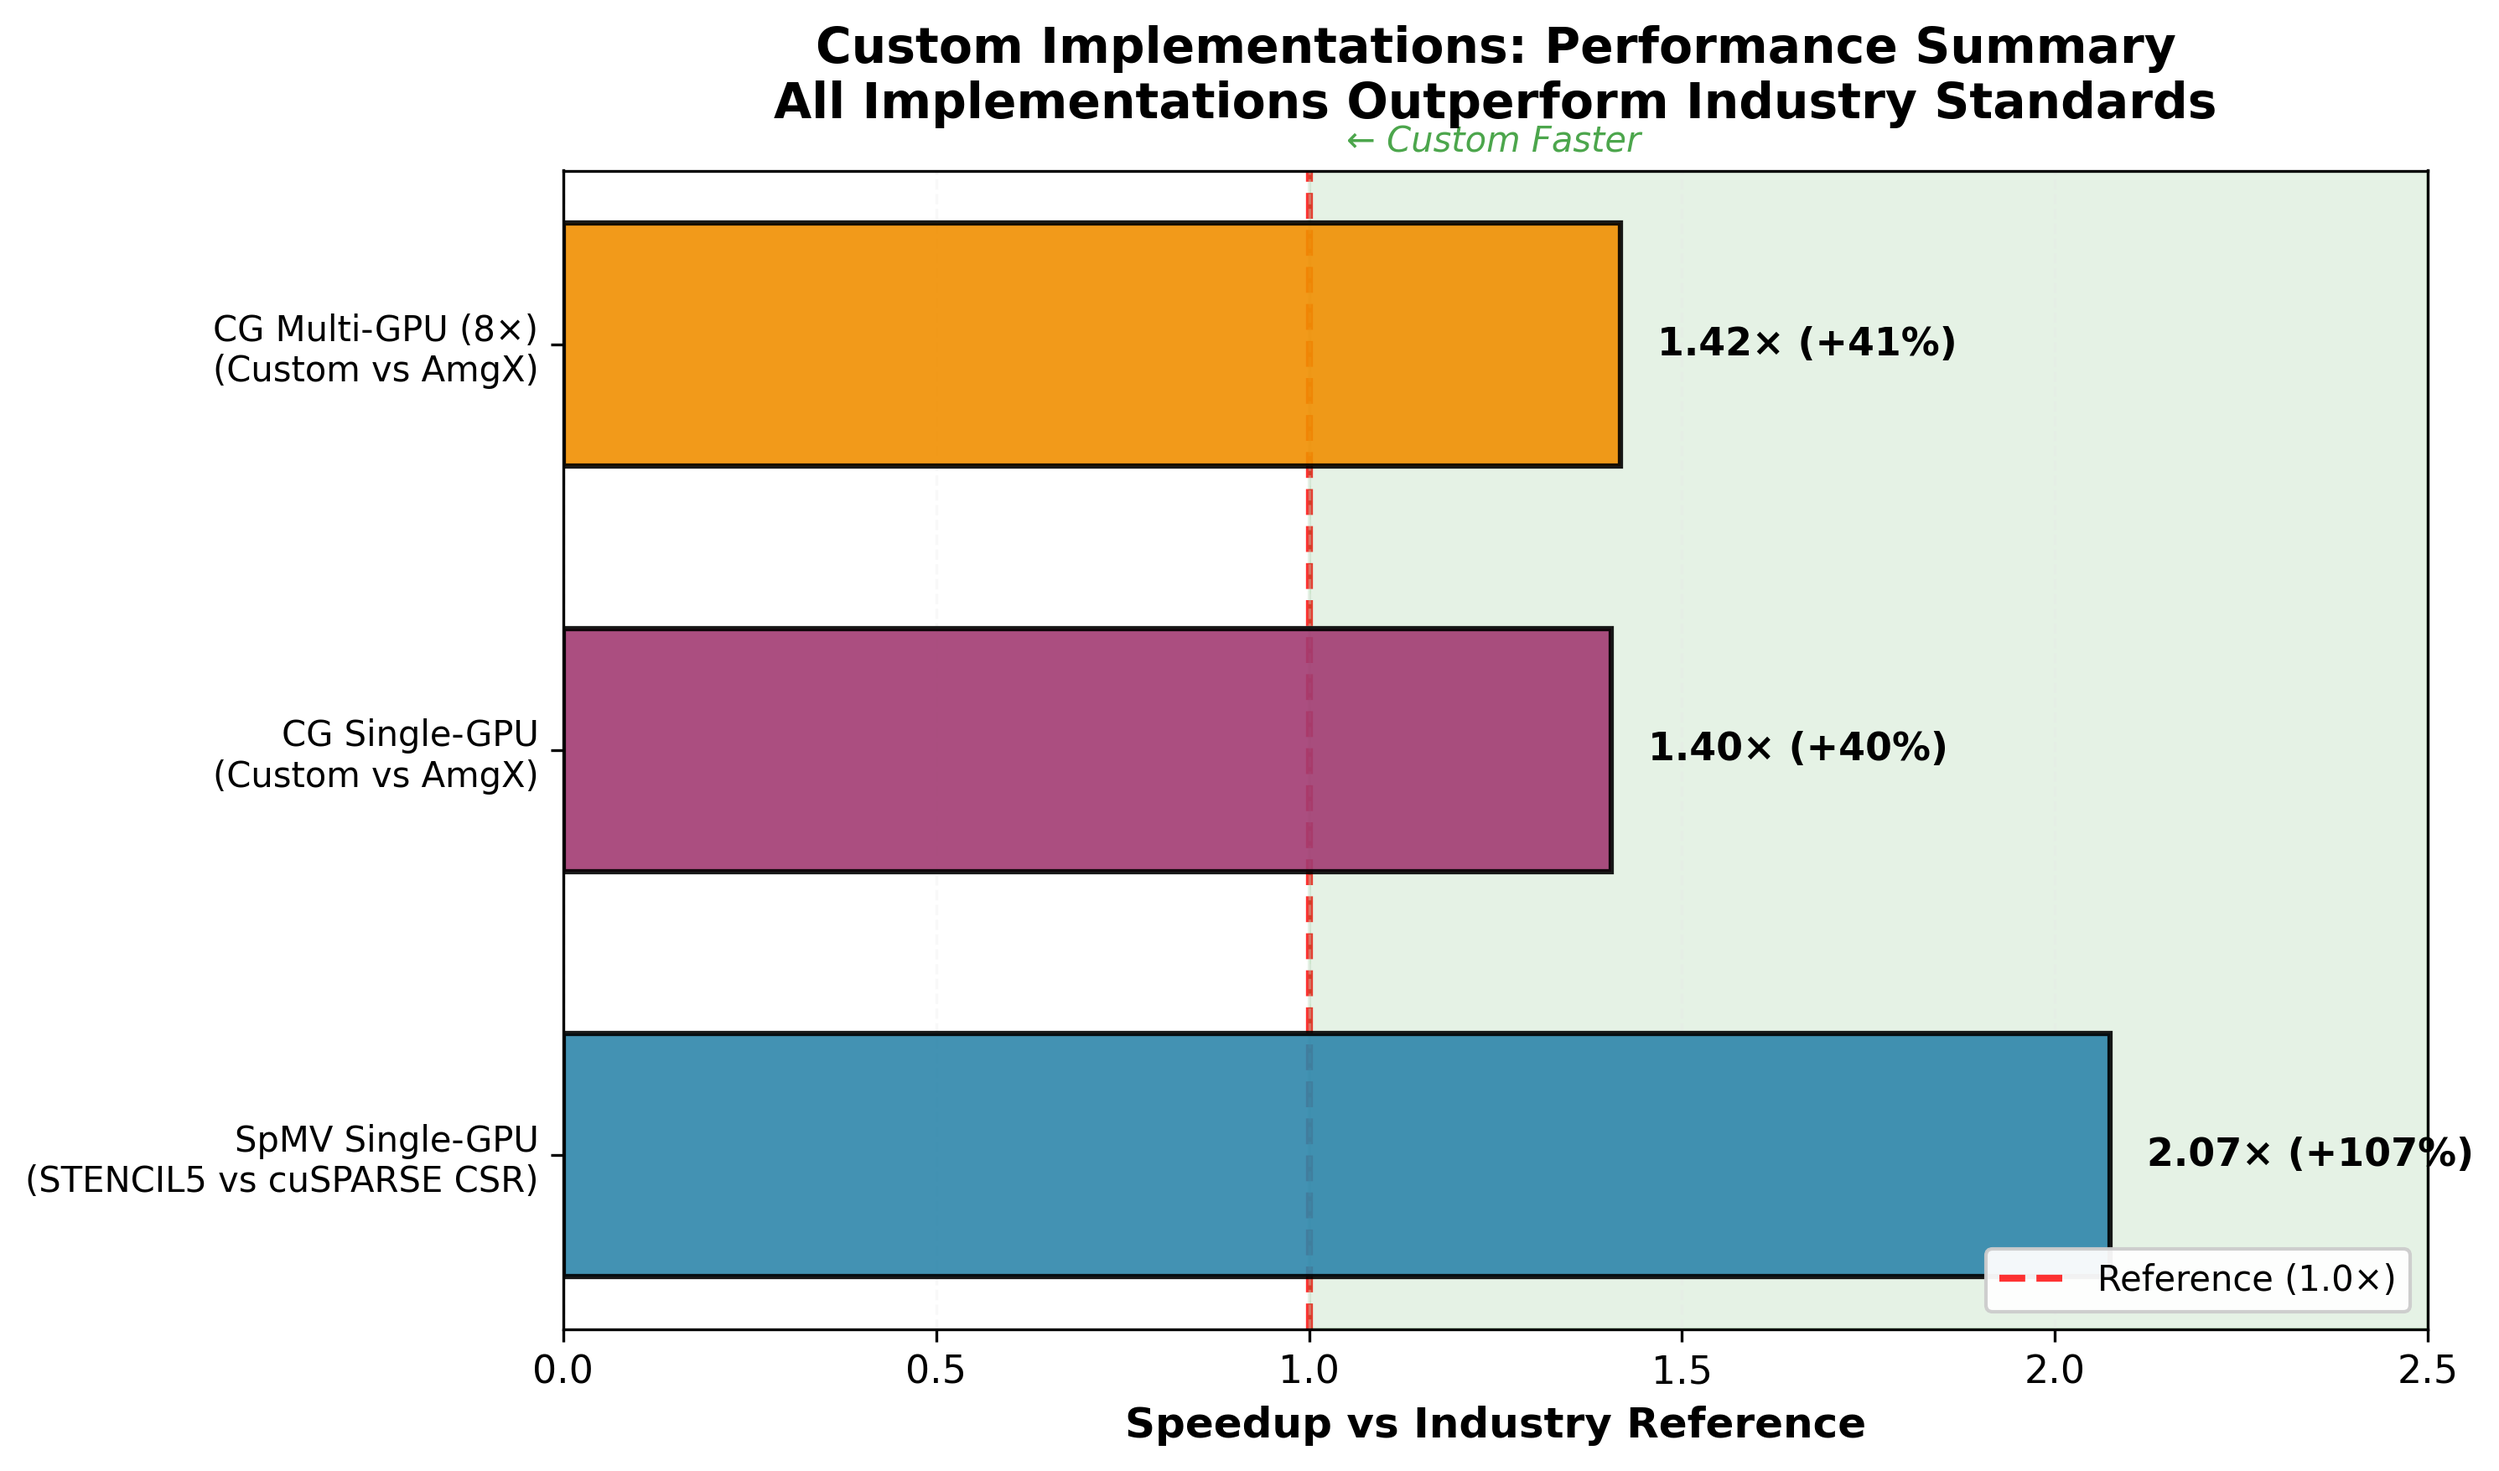
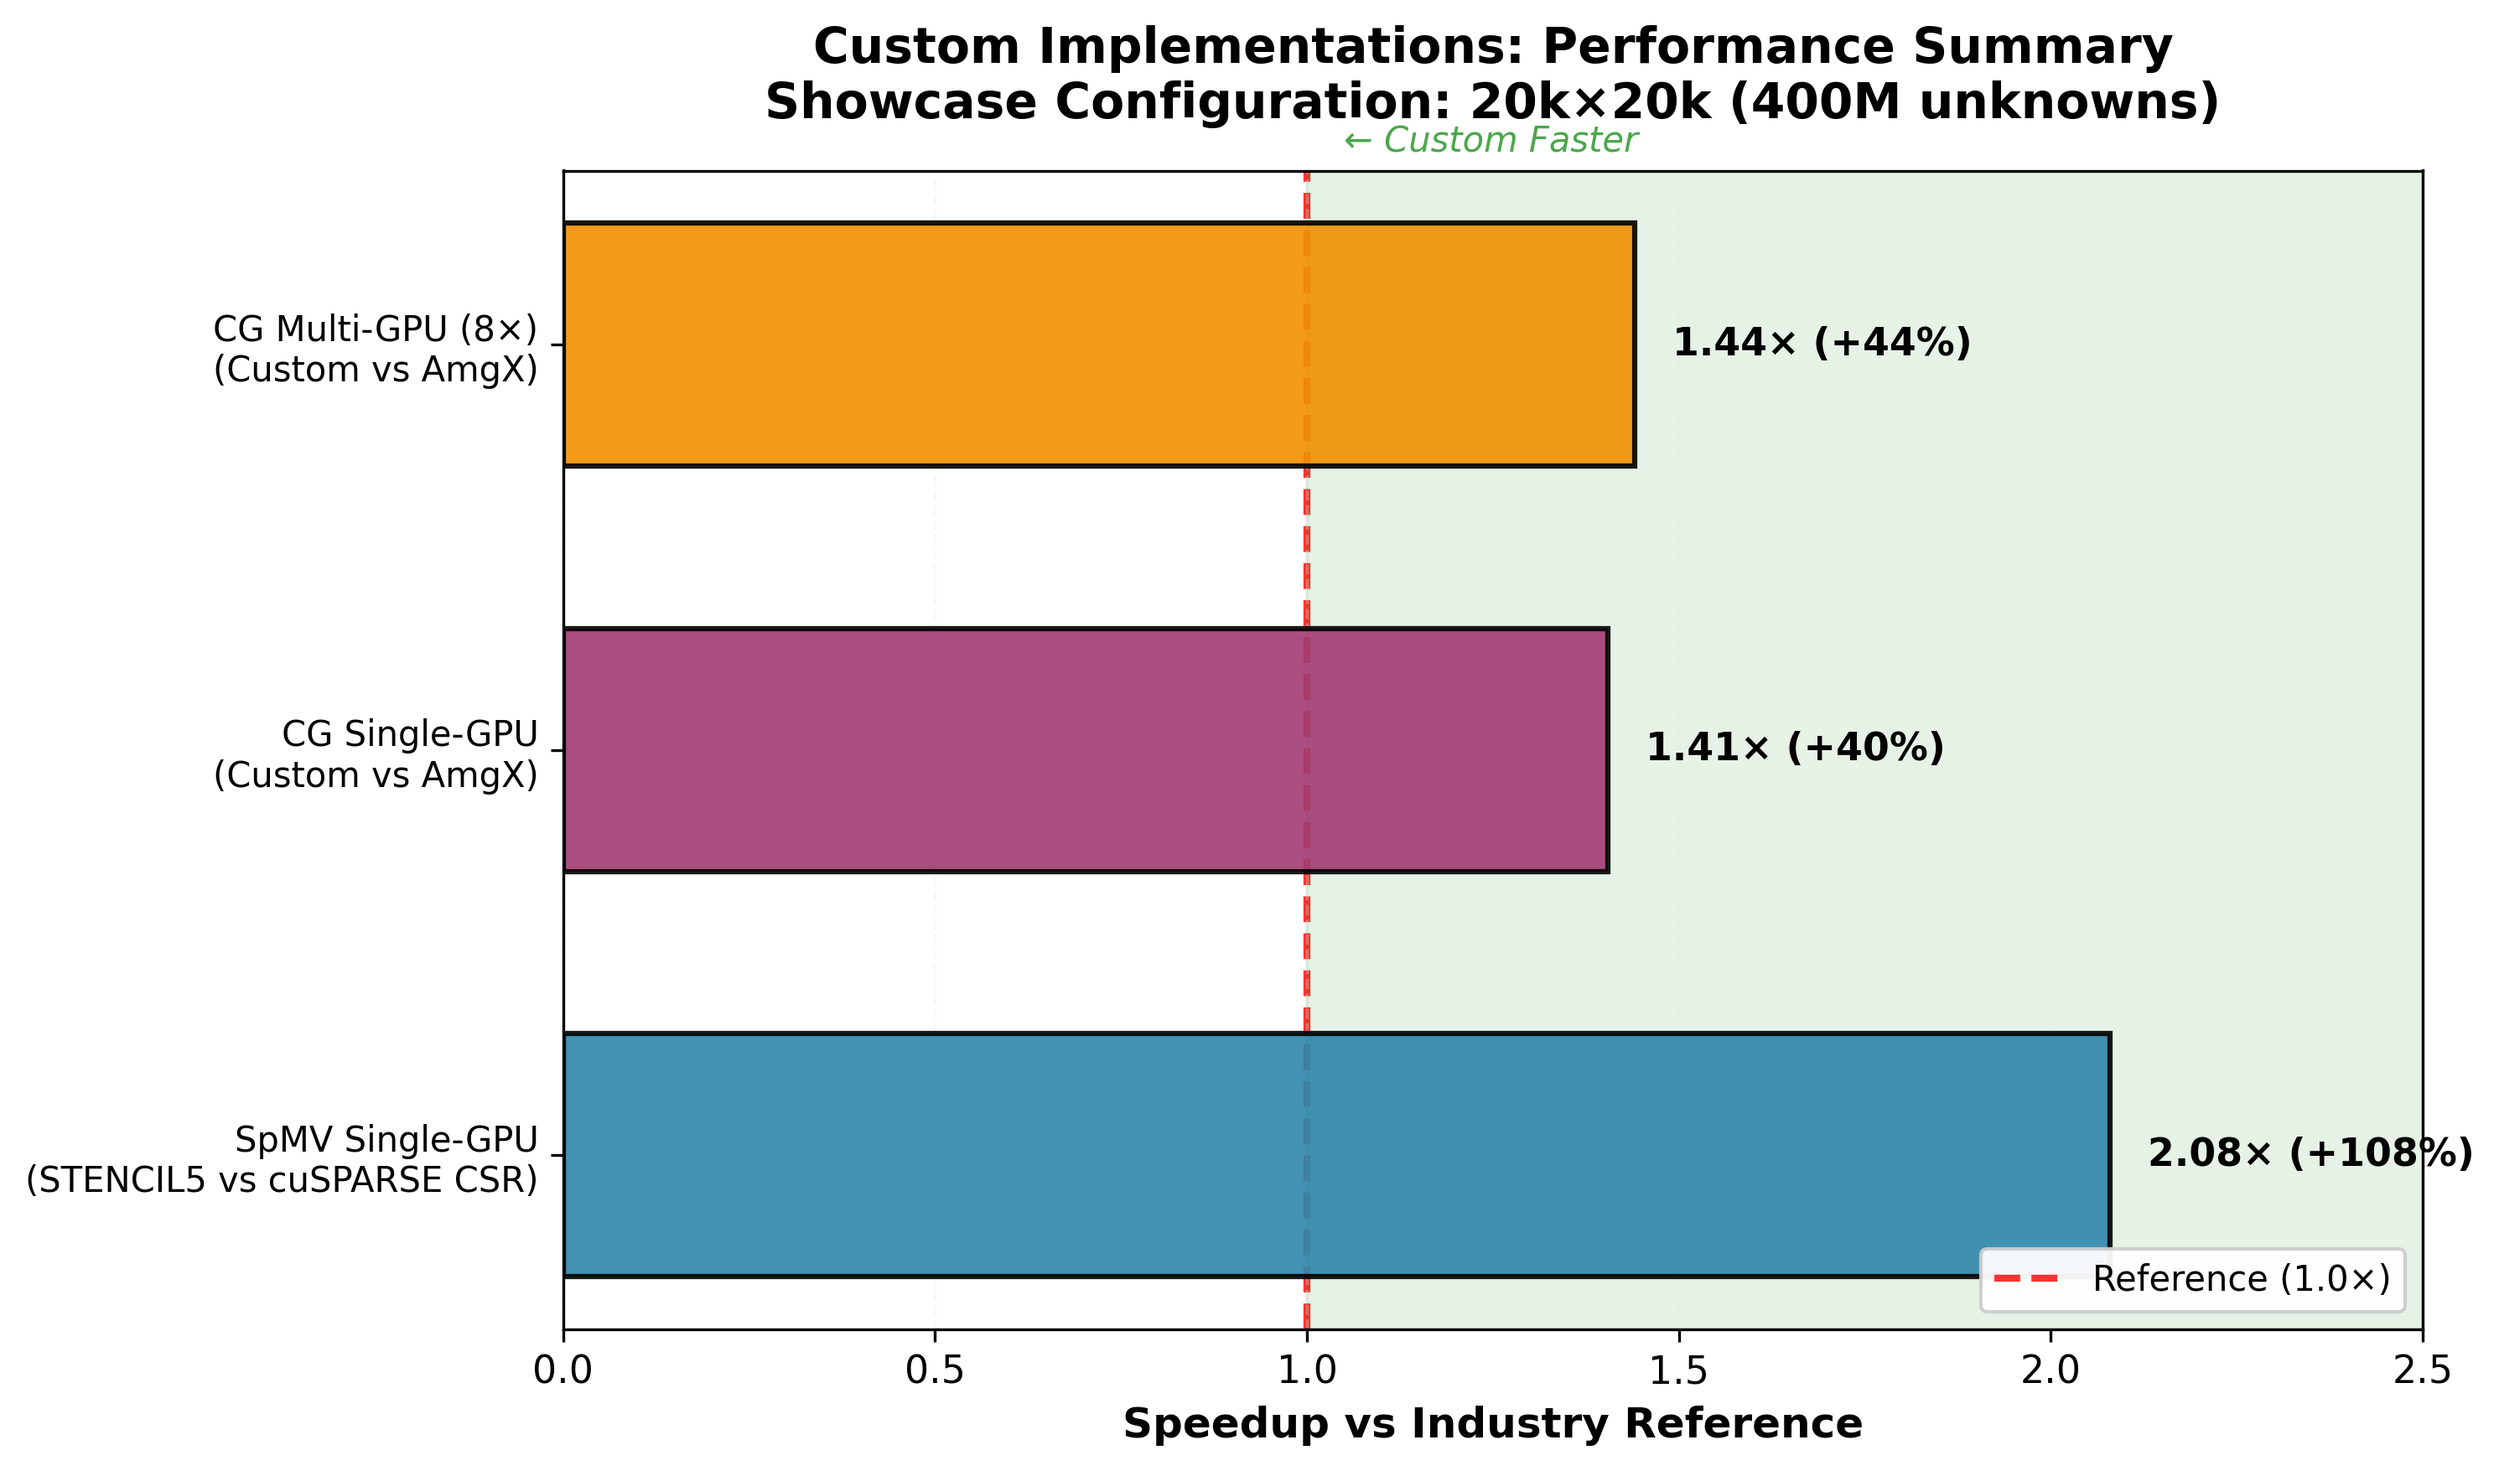
viz: use 20k×20k results in horizontal summary plot
Replace per-bar averages with 20k×20k (400M unknowns) values to align
the horizontal summary chart with the headline numbers in the README.
Update subtitle to identify the showcase configuration.

diff --git a/scripts/visualizations/plot_performance_summary.py b/scripts/visualizations/plot_performance_summary.py
@@ -168,7 +168,7 @@ categories_detailed = [
 y = np.arange(len(categories_detailed))
 
 # Create horizontal bars
-bars = ax.barh(y, speedups_avg, color=colors, alpha=0.9,
+bars = ax.barh(y, speedups_20k, color=colors, alpha=0.9,
                edgecolor='black', linewidth=1.5, height=0.6)
 
 # Reference line
@@ -178,7 +178,7 @@ ax.axvline(x=1.0, color='red', linestyle='--', linewidth=2, alpha=0.8,
 # Styling
 ax.set_xlabel('Speedup vs Industry Reference', fontweight='bold', fontsize=12)
 ax.set_title('Custom Implementations: Performance Summary\n' +
-             'All Implementations Outperform Industry Standards',
+             'Showcase Configuration: 20k×20k (400M unknowns)',
              fontweight='bold', fontsize=14, pad=15)
 ax.set_yticks(y)
 ax.set_yticklabels(categories_detailed, fontsize=10)
@@ -188,7 +188,7 @@ ax.set_axisbelow(True)
 ax.set_xlim(0, 2.5)
 
 # Add value labels
-for i, (bar, speedup) in enumerate(zip(bars, speedups_avg)):
+for i, (bar, speedup) in enumerate(zip(bars, speedups_20k)):
     width = bar.get_width()
     percentage = int((width - 1) * 100)
     ax.text(width + 0.05, bar.get_y() + bar.get_height()/2.,
